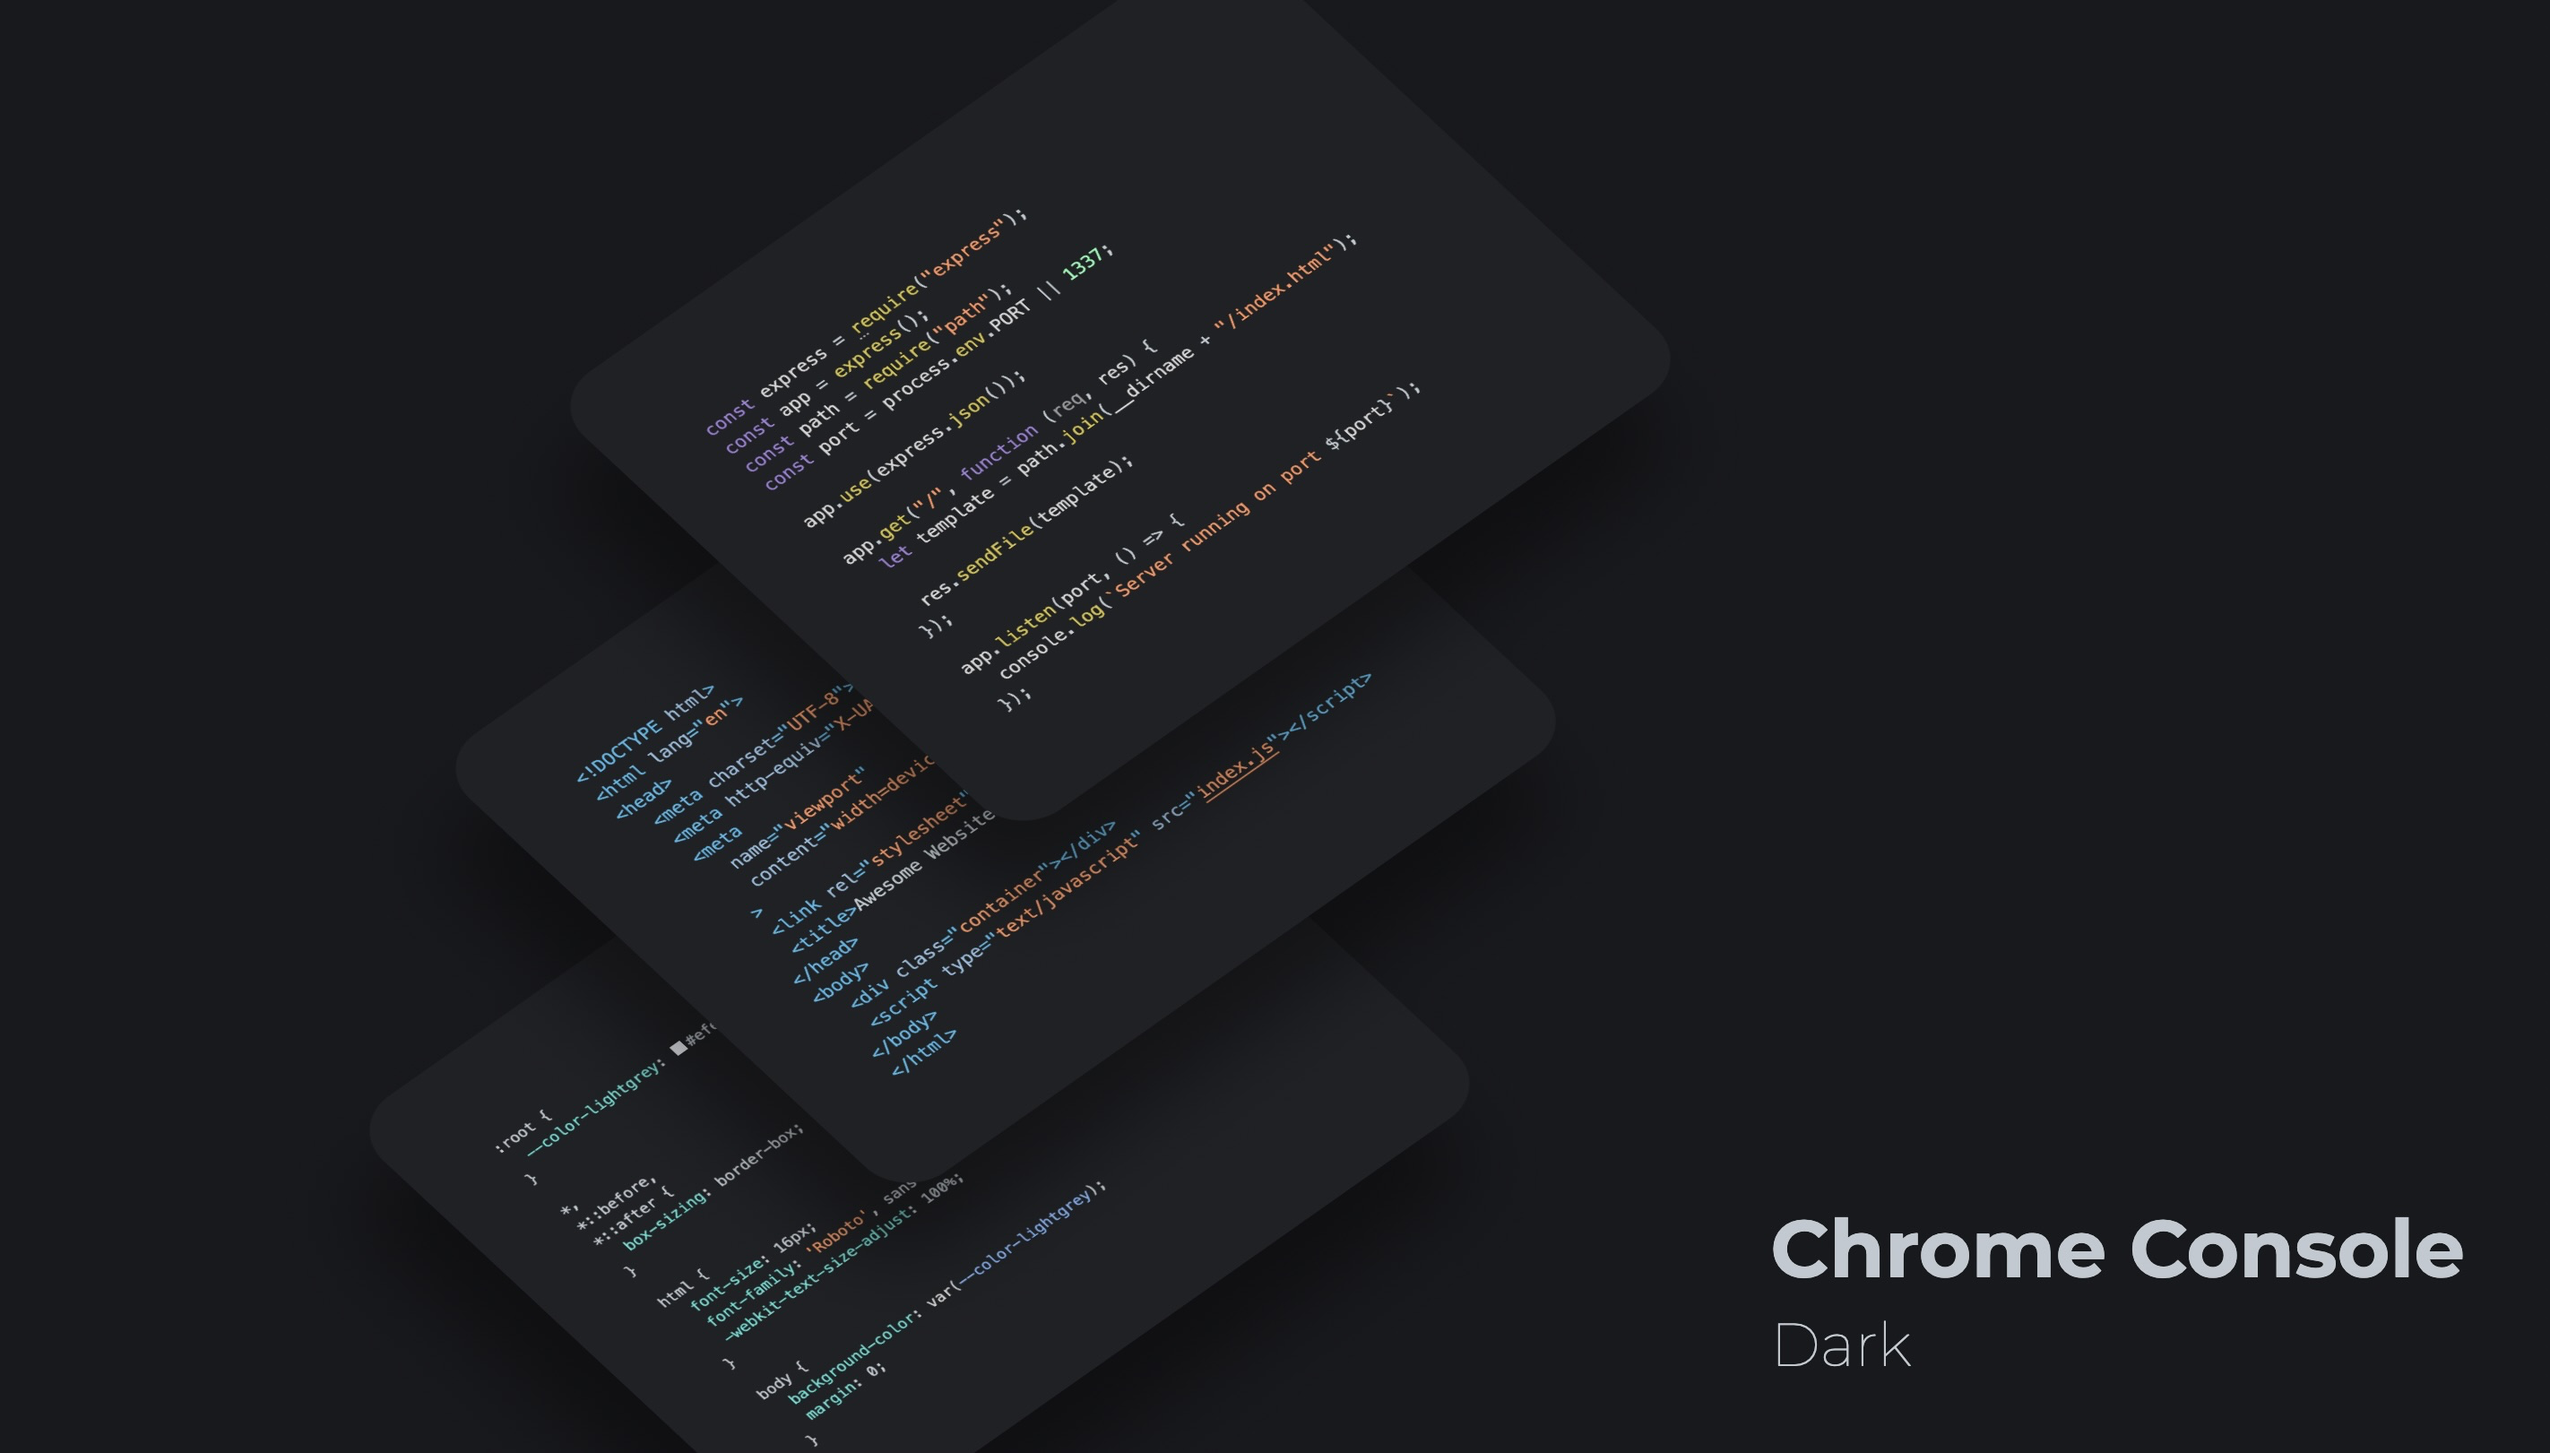
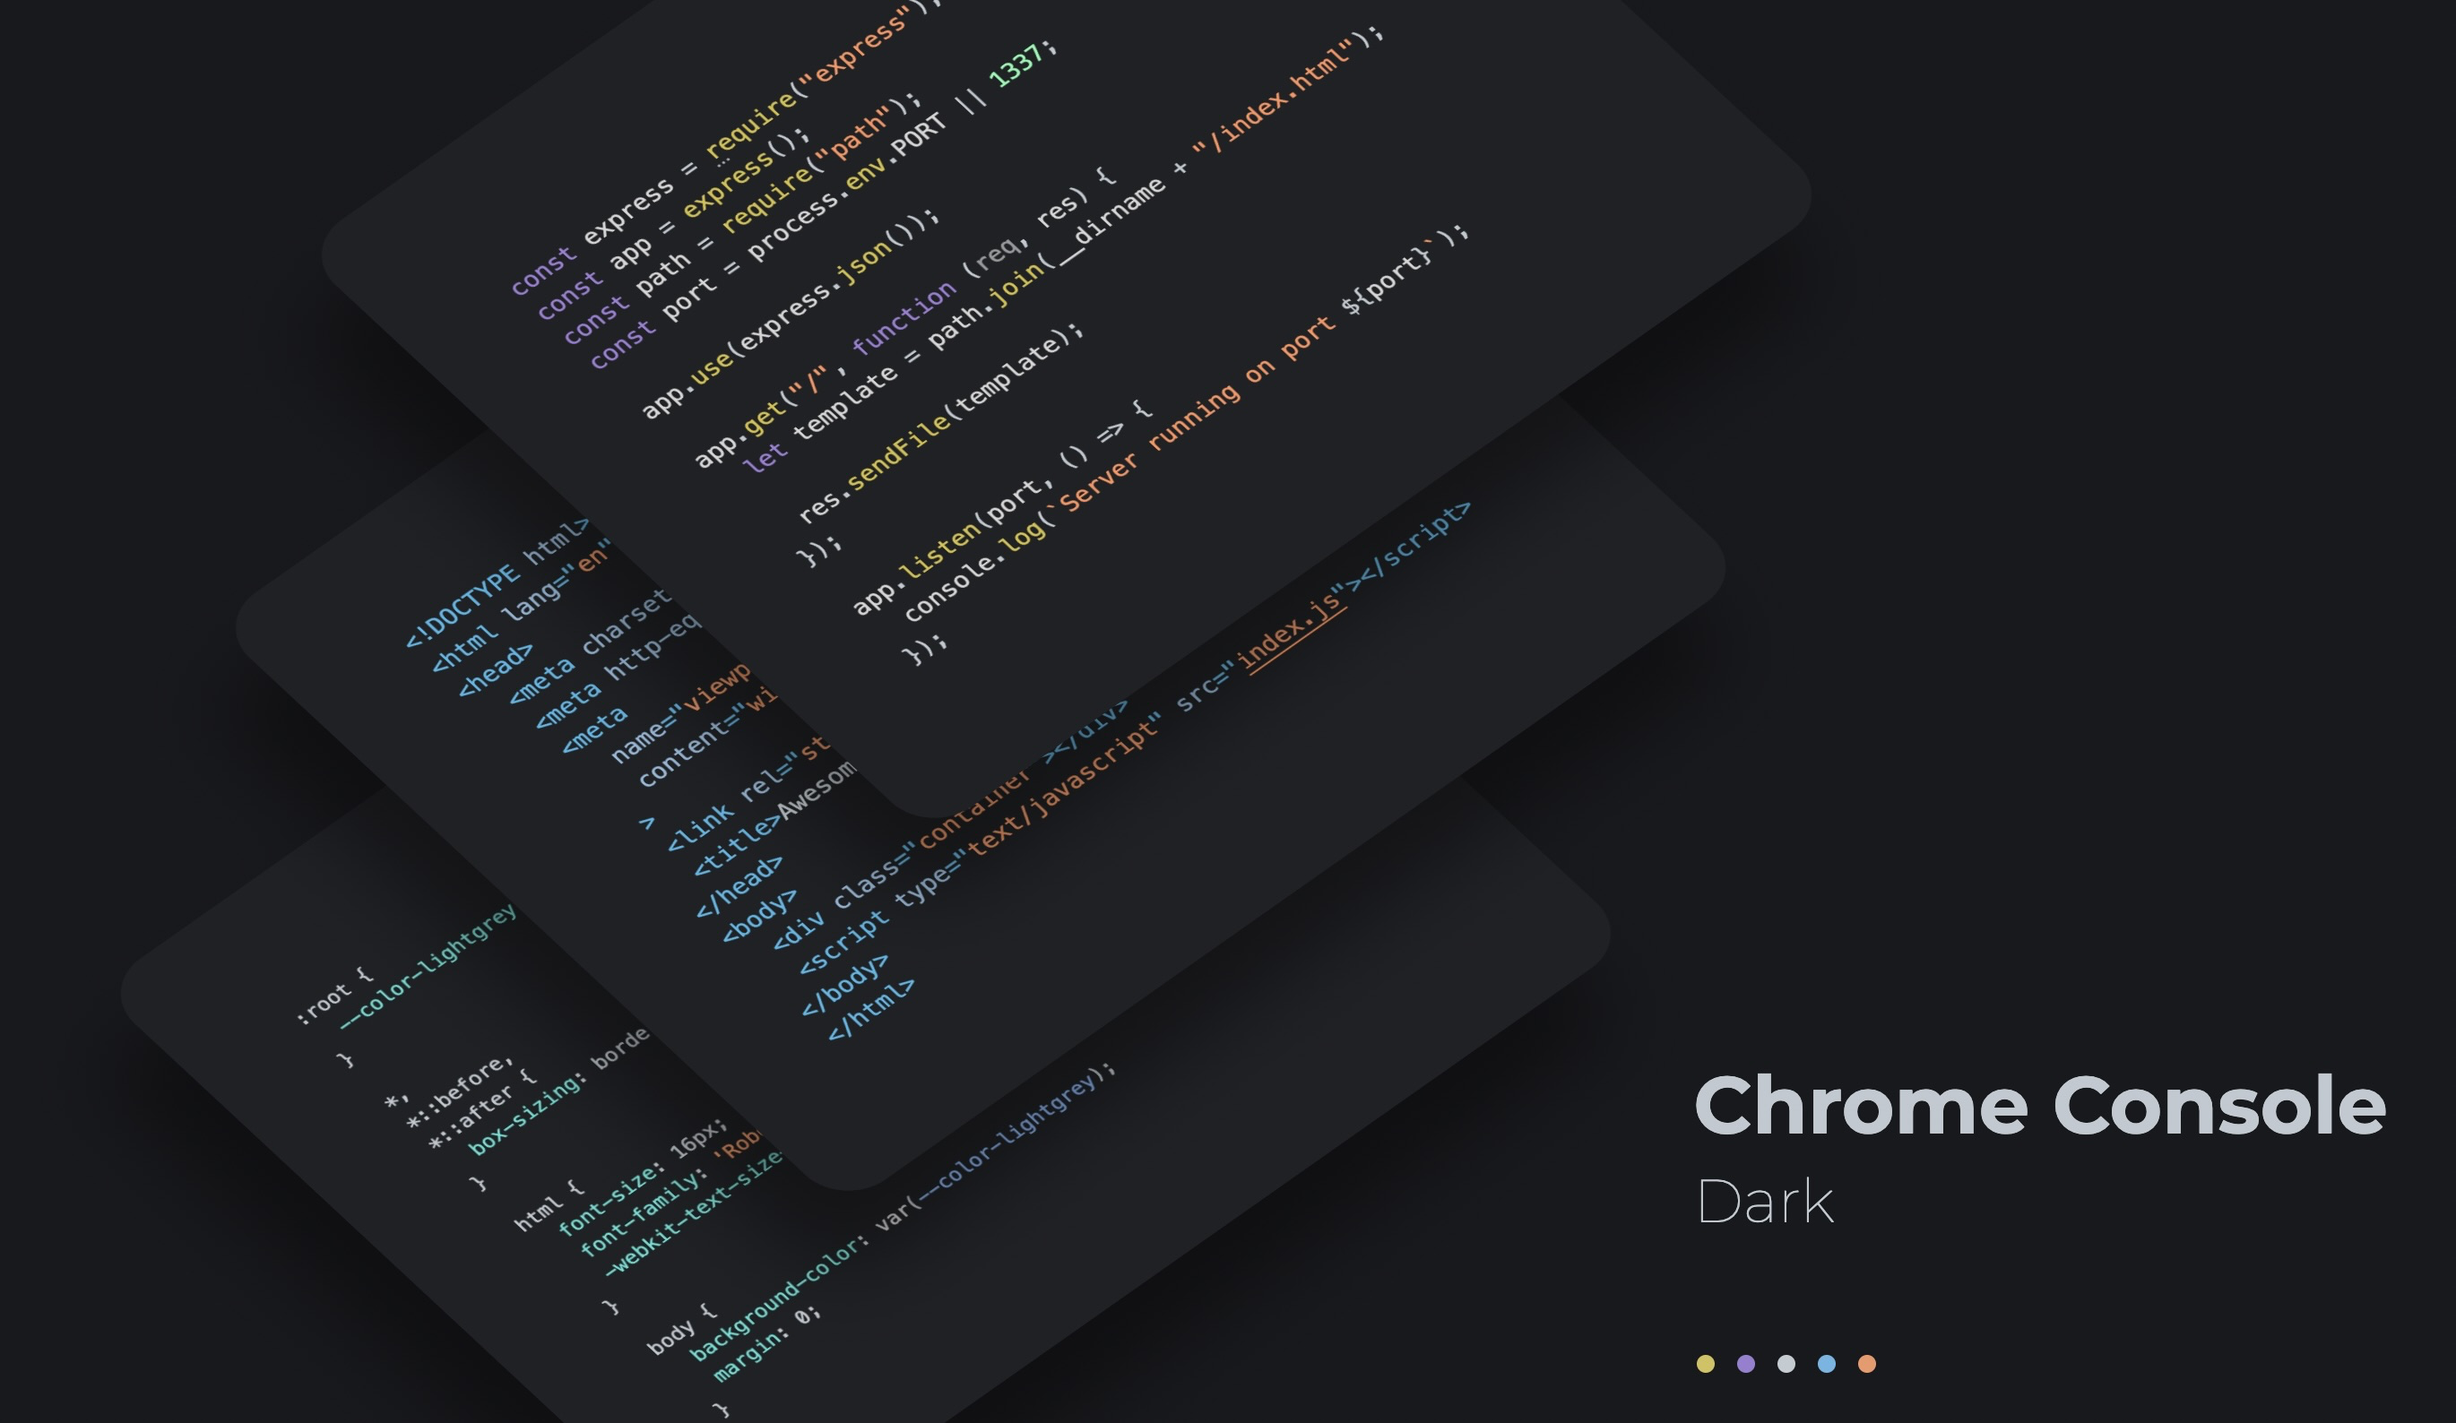
Update for v1.0.1

diff --git a/README.md b/README.md
@@ -7,7 +7,7 @@
   <img src="https://img.shields.io/visual-studio-marketplace/stars/SujanShrestha.chrome-console-dark?color=%23f19767&style=for-the-badge" />
   <br/><br/>
   <p>A Visual Studio Code color theme based on the Google Chrome dev console color scheme.</p>
-  <img src="https://user-images.githubusercontent.com/47782595/171379720-38f837fc-7641-40a6-abd4-a08955be4b3e.png" />
+  <img width="1370" alt="Chrome Console Dark" src="https://user-images.githubusercontent.com/47782595/171575187-8feabb6e-4af5-4692-8a81-78d776c7136b.png">
   <br/><br/><br/>
   <h2>Installation</h2>
   <p>Launch VS Code quick open with ctrl/command + P and run the following command:</p>
@@ -32,4 +32,5 @@
   <hr/>
   <p><small>Made with ❤ by Sujan</small></p>
   <p><small>License: <a href="https://github.com/sjns19/chrome-console-dark/blob/main/LICENSE.md">MIT</a></small></p>
+  <p><small>Preview in <a href="https://vscode.dev/theme/SujanShrestha.chrome-console-dark">vscode.dev</a></small></p>
 </div>

diff --git a/CHANGELOG.md b/CHANGELOG.md
@@ -1,6 +1,13 @@
-<div align="center">
-  <h1>Changelogs</h1>
-  <img src="https://img.shields.io/badge/version-1.0.0-%23f19767" />
-  <img src="https://img.shields.io/badge/release-6/1/2022-%23f19767" />
-  <p>Initial release</p>
-</div>
+# Changelogs
+
+![Release Version](https://img.shields.io/badge/version-1.0.0-%23f19767) ![Release Date](https://img.shields.io/badge/release-6/1/2022-%23f19767)
+
+- Initial release
+
+---
+
+![Release Version](https://img.shields.io/badge/version-1.0.1-%23f19767) ![Release Date](https://img.shields.io/badge/release-6/2/2022-%23f19767)
+
+- Corrected group header background color
+- Updated icon and showcase image
+- Minor changes in the README.md
